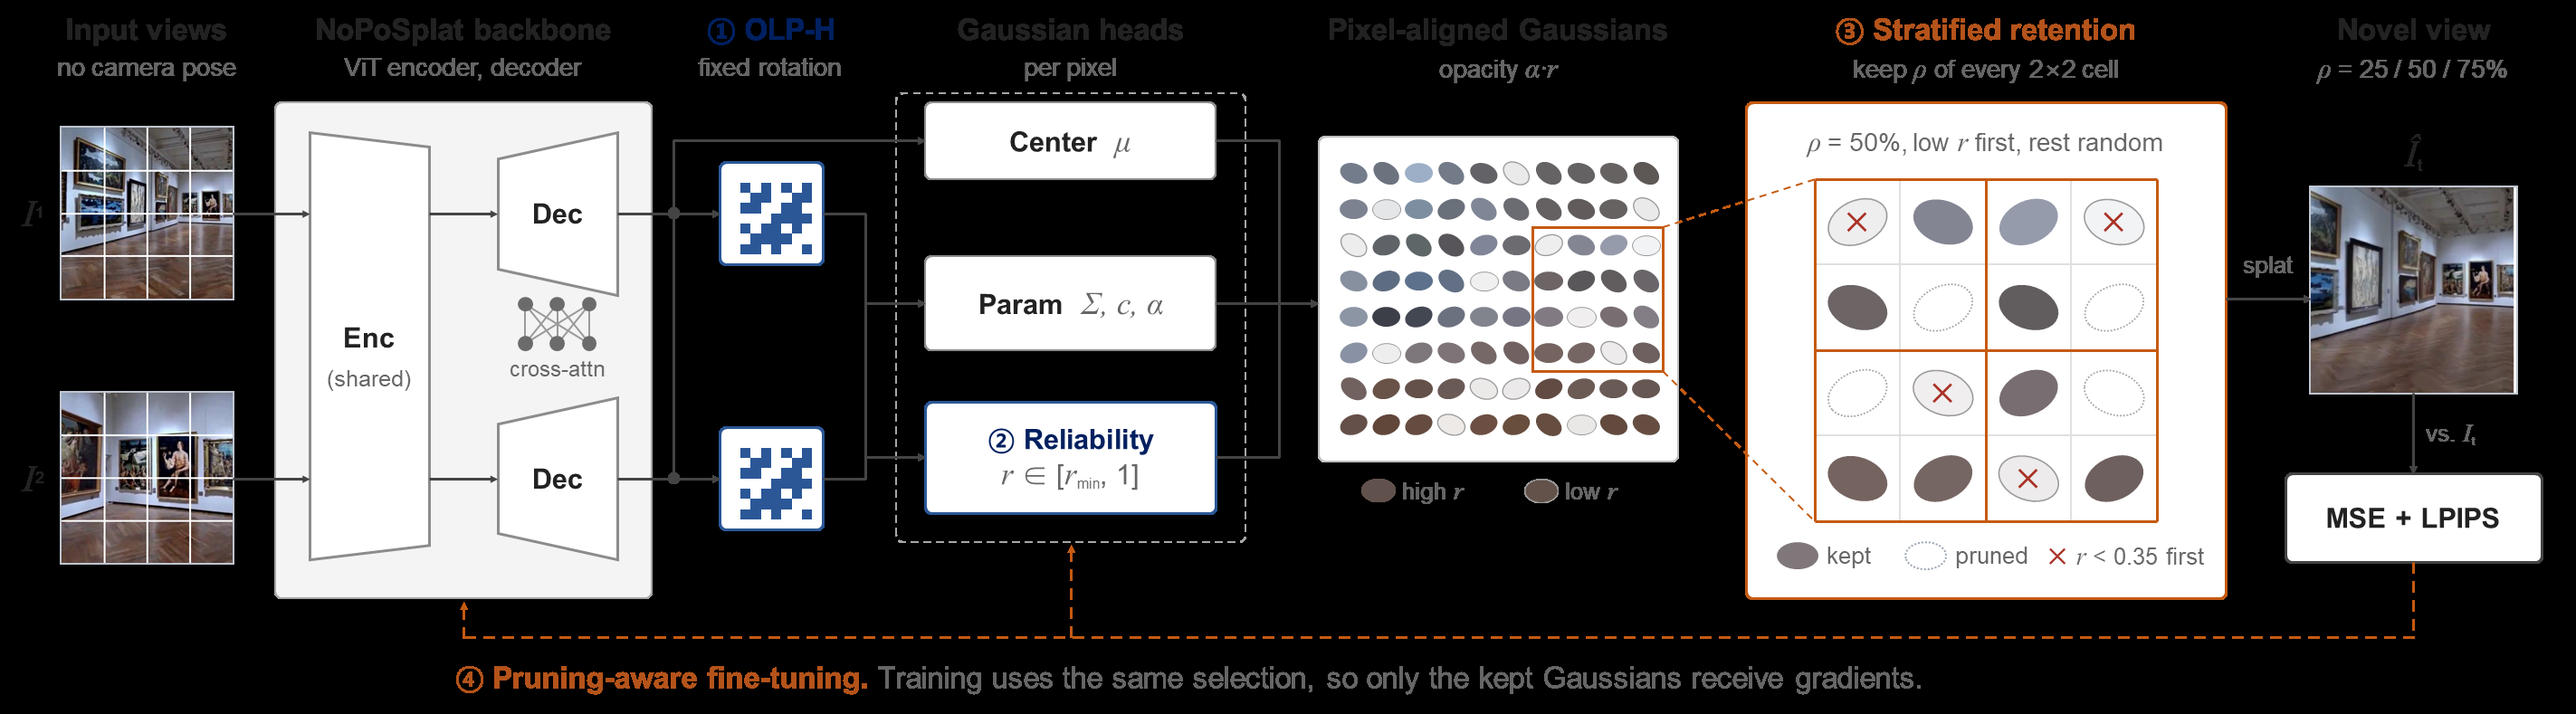
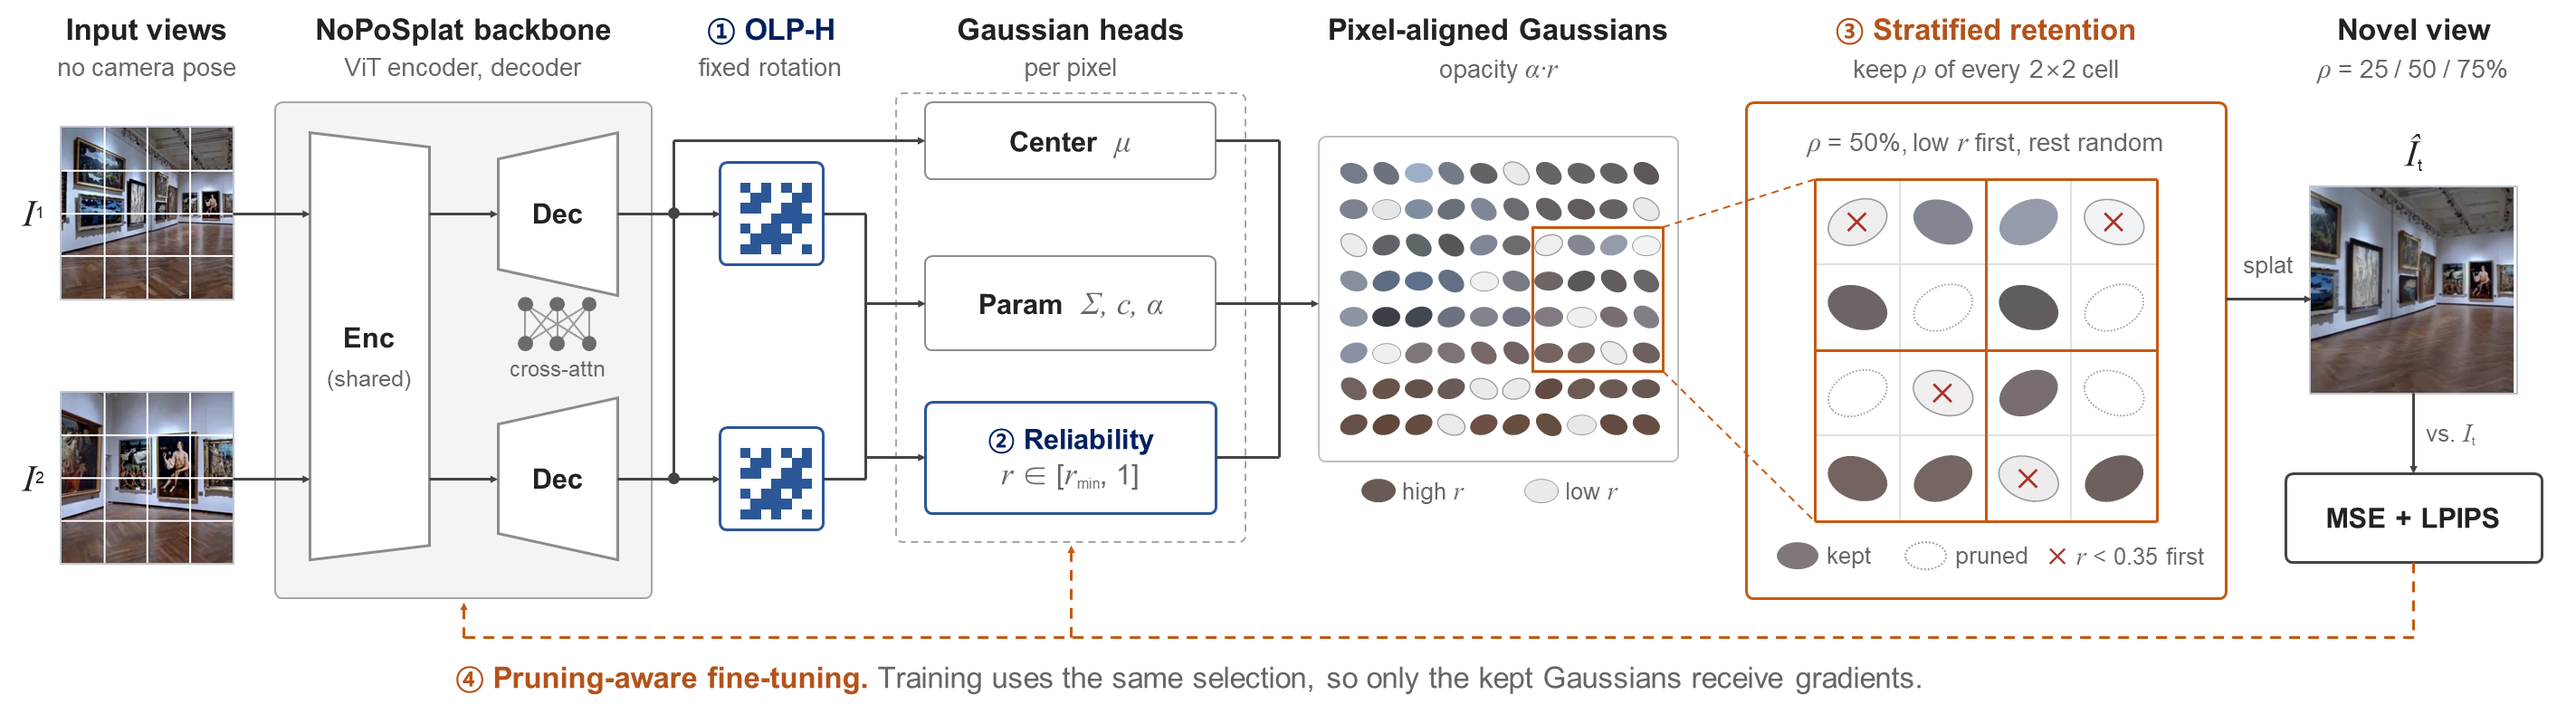
Method section (pipeline zoom, per-step renders) and results card
Claude-Session: https://claude.ai/code/session_01KvyveiN5jShWsK1vzFDuq6

diff --git a/supp_video/compose.py b/supp_video/compose.py
@@ -5,9 +5,10 @@ SCENES = sys.argv[1].split(',')
 OUT = sys.argv[2] if len(sys.argv) > 2 else f'{S}/final/evensplat_supp.mp4'
 PREVIEW = os.environ.get('PREVIEW')  # write PNG stills instead of video
 W, H, FPS = 1920, 1080, 30
-FD = '/usr/share/fonts/truetype/msttcorefonts/'  # apt install ttf-mscorefonts-installer
+FD = os.environ.get('FD', '/usr/share/fonts/truetype/msttcorefonts/')  # apt install ttf-mscorefonts-installer
+FB, FR = ('Times_New_Roman_Bold.ttf', 'Times_New_Roman.ttf') if 'msttcore' in FD else ('LiberationSerif-Bold.ttf', 'LiberationSerif-Regular.ttf')
 def F(sz, bold=False):
-    return ImageFont.truetype(FD + ('Times_New_Roman_Bold.ttf' if bold else 'Times_New_Roman.ttf'), sz)
+    return ImageFont.truetype(FD + (FB if bold else FR), sz)
 M = [  # key, label, video dir, score file
     ('pf3', 'PF3plat', 'pf3plat', 'pf3plat'),
     ('nopo', 'NoPoSplat', 'noposplat', 'nopo'),
@@ -132,8 +133,179 @@ def scene_block(k, scene):
             img.paste(fit(orb[key][f % nf], os_), (ox0 + j * (os_ + og), oy))
         emit(img, fadein(f))
 
+
+# ================= Method section (pipeline zoom + per-step renders) =================
+MSCENE = os.environ.get('MSCENE', 'c48f19e2ffa52523')
+ORANGE = (200, 90, 20)
+def ease(t): t = min(max(t, 0.0), 1.0); return t * t * (3 - 2 * t)
+def cmap(x):  # viridis-like
+    a = np.array([[68, 1, 84], [59, 82, 139], [33, 145, 140], [94, 201, 98], [253, 231, 37]], float)
+    x = np.clip(x, 0, 1) * 4; i = np.minimum(x.astype(int), 3); f = (x - i)[..., None]
+    return (a[i] * (1 - f) + a[i + 1] * f).astype(np.uint8)
+def load_scores(name):
+    acc = {}
+    p = f'{S}/scores/{name}.jsonl'
+    if not os.path.exists(p): return {}
+    for l in open(p):
+        d = json.loads(l); acc.setdefault(d['scene'], []).append(d)
+    return {k: {'n': v[0]['n'], 'psnr': sum(x['psnr'] for x in v) / len(v)} for k, v in acc.items()}
+def mask_view(ctx0, keep, P, inset_at=None):
+    kv = keep.reshape(-1, ctx0.shape[0], ctx0.shape[1])[0]
+    a = ctx0.astype(float)
+    a = np.where(kv[..., None], a, a * 0.22 + 255 * 0.78).astype(np.uint8)
+    im = Image.fromarray(a).resize((P, P), Image.NEAREST)
+    if inset_at is not None:
+        y, x = inset_at; n = 16; z = 7
+        sub = Image.fromarray(a[y:y + n, x:x + n]).resize((n * z, n * z), Image.NEAREST)
+        d = ImageDraw.Draw(sub)
+        for k in range(0, n + 1, 2):
+            d.line([(k * z, 0), (k * z, n * z)], fill=(150, 150, 150), width=1)
+            d.line([(0, k * z), (n * z, k * z)], fill=(150, 150, 150), width=1)
+        fr = Image.new('RGB', (n * z + 6, n * z + 6), ORANGE); fr.paste(sub, (3, 3))
+        im.paste(fr, (P - fr.size[0] - 6, P - fr.size[1] - 6))
+        ImageDraw.Draw(im).rectangle([x * P / ctx0.shape[1], y * P / ctx0.shape[0], (x + n) * P / ctx0.shape[1], (y + n) * P / ctx0.shape[0]], outline=ORANGE, width=2)
+    return im
+
+def rich(d, xy, parts, font, fill, anchor='la'):
+    # parts: ints draw a circled number, strings draw text; anchor 'la' or 'ma'
+    sz = font.size; r = int(sz * 0.42); gap = int(sz * 0.25)
+    widths = [(2 * r + gap) if isinstance(p, int) else d.textlength(p, font=font) + gap for p in parts]
+    x, y = xy
+    if anchor == 'ma': x -= sum(widths) // 2
+    for p, w in zip(parts, widths):
+        if isinstance(p, int):
+            cy = y + int(sz * 0.55)
+            d.ellipse([x, cy - r, x + 2 * r, cy + r], outline=fill, width=max(2, sz // 14))
+            d.text((x + r, cy), str(p), font=F(int(sz * 0.62), True), fill=fill, anchor='mm')
+        else:
+            d.text((x, y), p, font=font, fill=fill)
+        x += w
+
+def method_block():
+    PIPE = Image.open(f'{S}/pipeline.png').convert('RGB')
+    PW, PH = PIPE.size; RW = 2000.0; RH = RW * PH / PW; SX = PW / RW
+    BW = 1800; BH = int(BW * PH / PW); BX = (W - BW) // 2; BY = 92
+    def band(cx, cy, z, hl, ha):
+        w = RW / z; h = RH / z
+        x0 = min(max(cx - w / 2, 0), RW - w); y0 = min(max(cy - h / 2, 0), RH - h)
+        im = PIPE.crop((int(x0 * SX), int(y0 * SX), int((x0 + w) * SX), int((y0 + h) * SX))).resize((BW, BH), Image.LANCZOS)
+        if hl is not None and ha > 0:
+            k = BW / w
+            r = [int((hl[0] - x0) * k), int((hl[1] - y0) * k), int((hl[2] - x0) * k), int((hl[3] - y0) * k)]
+            a = np.asarray(im).astype(float); m = np.ones(a.shape[:2], bool)
+            m[max(r[1], 0):max(r[3], 0), max(r[0], 0):max(r[2], 0)] = False
+            a[m] = a[m] * (1 - 0.6 * ha) + 255 * 0.6 * ha
+            im = Image.fromarray(a.astype(np.uint8))
+            ImageDraw.Draw(im).rounded_rectangle(r, radius=10, outline=ORANGE, width=max(1, int(4 * ha)))
+        return im
+    mp = {n: np.load(f'{S}/maps/{n}_{MSCENE}.npz') for n in ('abl_cell0', 'abl_cell2', 'ours_map')}
+    ctx0 = mp['abl_cell0']['ctx'][0]
+    Hc, Wc = ctx0.shape[:2]
+    rel = mp['abl_cell0']['rel'].reshape(-1, Hc, Wc)[0]
+    rn = (rel - rel.min()) / max(1e-6, rel.max() - rel.min())
+    vid = lambda d: loop180(u8(np.load(f'{S}/videos/{d}/{MSCENE}.npy')))
+    V = {'olp': vid('baseline-off'), 'g': vid('reliability-r0.5-cell0'), 's': vid('reliability-r0.5-cell2'), 'ours': vid('r_filter-r0.5-cell2')}
+    sc = {k: load_scores(n).get(MSCENE) for k, n in (('olp', 'olp'), ('g', 'abl_cell0'), ('s', 'abl_cell2'), ('ours', 'ours_r50'))}
+    def met(k, n):
+        out = []
+        if sc[k]: out.append(f"PSNR {sc[k]['psnr']:.2f} dB")
+        out.append(f"{n:,} Gaussians"); return out
+    # find an inset location with a visible mix in the global mask
+    kg = mp['abl_cell0']['keep'].reshape(-1, Hc, Wc)[0].astype(float)
+    best, at = -1, (Hc // 2, Wc // 2)
+    for y in range(16, Hc - 32, 8):
+        for x in range(16, Wc - 32, 8):
+            v = kg[y:y + 16, x:x + 16].mean(); sc_ = -abs(v - 0.5) * 0 + (1 - abs(v - 0.15) * 4)
+            if sc_ > best: best, at = sc_, (y, x)
+    full = 2 * Hc * Wc; half = full // 2
+    stages = [
+        dict(n=90, view=(1000, RH / 2, 1.0, None), tag=None),
+        dict(n=210, view=(745, 212, 1.3, (515, 2, 975, 425)), tag=[1, 'OLP-H  +', 2, 'Reliability'],
+             desc=['Each pixel predicts one Gaussian', 'and a reliability r in [r_min, 1].', 'Opacity becomes α·r, so unreliable', 'Gaussians fade out.'],
+             panels=[('img', Image.fromarray(ctx0), 'Input view', []),
+                     ('img', Image.fromarray(cmap(rn)), 'Reliability r', ['low r', None]),
+                     ('vid', V['olp'], 'Render (all Gaussians)', met('olp', full))]),
+        dict(n=240, view=(1372, 235, 1.18, (1010, 2, 1735, 470)), tag=[3, 'Stratified retention'],
+             desc=['Keep 50% in every 2×2 cell:', 'low r first, the rest at random.', 'A global top-k by r removes', 'whole regions instead.', '(no fine-tuning yet)'],
+             panels=[('mask', mp['abl_cell0']['keep'], 'Global top-k: kept', []),
+                     ('vid', V['g'], 'Global top-k', met('g', half)),
+                     ('mask', mp['abl_cell2']['keep'], '2×2 stratified: kept', []),
+                     ('vid', V['s'], '2×2 stratified', met('s', half))]),
+        dict(n=210, view=(1000, RH / 2, 1.0, (335, 468, 1995, 553)), tag=[4, 'Pruning-aware fine-tuning'],
+             desc=['Training uses the same selection,', 'so only the kept Gaussians', 'receive gradients and learn to', 'cover the pruned ones.'],
+             panels=[('mask', mp['ours_map']['keep'], 'Kept (r filter, 2×2)', []),
+                     ('vid', V['s'], 'Before fine-tuning', met('s', half)),
+                     ('vid', V['ours'], 'EvenSplat (Ours)', met('ours', half))]),
+    ]
+    prev = stages[0]['view']
+    for si, st in enumerate(stages):
+        base = Image.new('RGB', (W, H), 'white'); d = ImageDraw.Draw(base)
+        header(d, 'Method')
+        if st['tag'] is None:
+            text(d, (W // 2, 700), 'Pose-free 3D Gaussian Splatting from two unposed views,', F(38), 'ma')
+            text(d, (W // 2, 752), 'keeping an even 50% of the pixel-aligned Gaussians.', F(38), 'ma')
+            rich(d, (W // 2, 840), [1, 'OLP-H   ', 2, 'Reliability   ', 3, 'Stratified retention   ', 4, 'Pruning-aware fine-tuning'], F(34, True), ORANGE, 'ma')
+            ps = []
+        else:
+            rich(d, (60, 640), st['tag'], F(40, True), ORANGE)
+            for i, l in enumerate(st['desc']):
+                text(d, (60, 706 + i * 42), l, F(31), fill=(40, 40, 40))
+            n = len(st['panels']); P = 300 if n <= 3 else 268; g = 26
+            x0 = 660 + (1200 - (n * P + (n - 1) * g)) // 2; py = 690
+            ps = []
+            for j, (kind, src, lab, lines) in enumerate(st['panels']):
+                x = x0 + j * (P + g); cx = x + P // 2
+                text(d, (cx, py - 44), lab, F(29, True), 'ma')
+                if kind == 'img': base.paste(src.resize((P, P), Image.LANCZOS), (x, py))
+                if kind == 'mask': base.paste(mask_view(ctx0, src, P, at if si == 2 else None), (x, py))
+                if lab == 'Reliability r':
+                    bar = Image.fromarray(np.repeat(cmap(np.linspace(0, 1, P))[None], 14, 0)); base.paste(bar, (x, py + P + 10))
+                    text(d, (x, py + P + 30), 'low', F(24), 'la', fill=(70, 70, 70)); text(d, (x + P, py + P + 30), 'high', F(24), 'ra', fill=(70, 70, 70))
+                else:
+                    for i, l in enumerate(lines):
+                        if l: text(d, (cx, py + P + 10 + i * 32), l, F(27), 'ma', fill=(0, 0, 0) if i == 0 and 'PSNR' in l else (70, 70, 70))
+                if kind == 'vid': ps.append((src, x, py, P))
+        nxt = st['view']; T = 24
+        for f in range(st['n']):
+            t = ease(f / T)
+            cx = prev[0] + (nxt[0] - prev[0]) * t; cy = prev[1] + (nxt[1] - prev[1]) * t; z = prev[2] + (nxt[2] - prev[2]) * t
+            img = base.copy()
+            img.paste(band(cx, cy, z, nxt[3], ease((f - T) / 12)), (BX, BY))
+            for src, x, y, P in ps:
+                img.paste(fit(src[f % 180], P), (x, y))
+            fa = fadein(f, 10) if si > 0 else fadein(f, 15)
+            if si == len(stages) - 1: fa = min(fa, (st['n'] - f) / 12)
+            emit(img, fa)
+        prev = nxt
+
+def results_card(secs=8):
+    base = Image.new('RGB', (W, H), 'white'); d = ImageDraw.Draw(base)
+    header(d, 'Results', '(RealEstate10K, full test set)')
+    fig = Image.open(f'{S}/psnr_vs_gaussians.png').convert('RGB')
+    fh = 780; fw = int(fig.size[0] * fh / fig.size[1])
+    base.paste(fig.resize((fw, fh), Image.LANCZOS), (70, 170))
+    cols = [('Model', 'la', 0), ('#Gaussians', 'ma', 330), ('PSNR ↑', 'ma', 480), ('SSIM ↑', 'ma', 610), ('LPIPS ↓', 'ma', 740)]
+    rows = [('NoPoSplat*', '131K', '25.03', '0.838', '0.160', False),
+            ('EvenSplat 75%', '98K', '25.26', '0.837', '0.161', True),
+            ('EvenSplat 50%', '66K', '25.01', '0.829', '0.169', True),
+            ('EvenSplat 25%', '33K', '24.62', '0.817', '0.184', True)]
+    tx = 70 + fw + 50; ty = 330
+    for name, an, dx in cols: text(d, (tx + dx, ty), name, F(32, True), an)
+    d.line([(tx, ty + 50), (tx + 800, ty + 50)], fill=(0, 0, 0), width=2)
+    for i, r in enumerate(rows):
+        y = ty + 72 + i * 58
+        for j, (name, an, dx) in enumerate(cols): text(d, (tx + dx, y), r[j], F(32, r[5] and j == 0), an)
+    d.line([(tx, ty + 72 + 4 * 58), (tx + 800, ty + 72 + 4 * 58)], fill=(0, 0, 0), width=2)
+    text(d, (tx, ty + 72 + 4 * 58 + 24), '*Reported in NoPoSplat.', F(26), fill=(90, 90, 90))
+    text(d, (tx, ty + 72 + 4 * 58 + 90), 'Half the Gaussians at the same quality as NoPoSplat;', F(32))
+    text(d, (tx, ty + 72 + 4 * 58 + 136), 'peak rendering memory 167 MB → 87 MB.', F(32))
+    n = int(secs * FPS)
+    for i in range(n): emit(base, min(fadein(i, 15), (n - i) / 15))
+
 title_card([('EvenSplat', 120, True), ('Kyoosuk Hwang, Junyoung Kwon', 48, False)], 4)
+if os.path.exists(f'{S}/maps'): method_block()
 for k, s in enumerate(SCENES): scene_block(k, s)
+if os.path.exists(f'{S}/psnr_vs_gaussians.png'): results_card()
 title_card([('Thank you for watching.', 90, False)], 3)
 if writer: writer.close()
 print('COMPOSED', frames_written[0], OUT)
